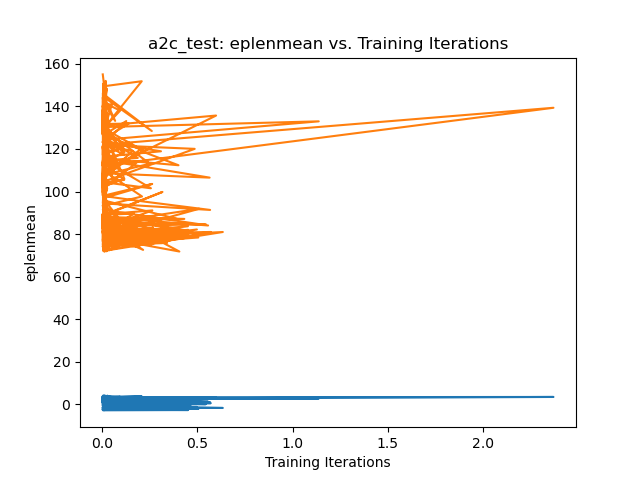
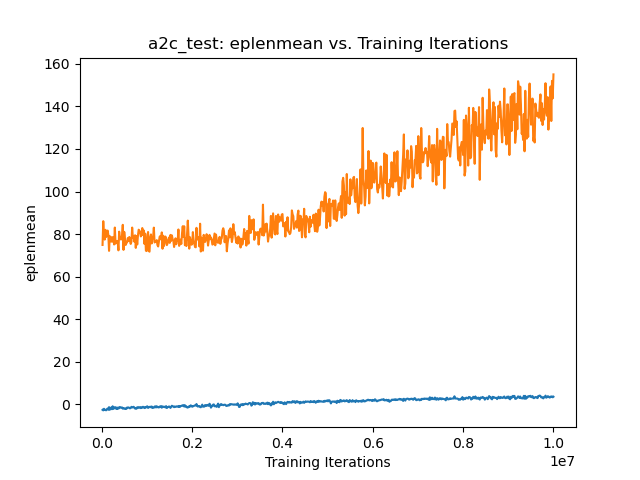
fixed visualization issue with a2c where X axis is hardcoded

diff --git a/plot_a2c.py b/plot_a2c.py
@@ -72,7 +72,7 @@ def plot(model_names, columns=['mean'], save=False, show=True, save_dir = "./", 
 
         # get the labels. Column 0 is mean, Column 1 is Reward, Column -1 is times
         for col in cols:
-            X = np.array(dataset[values[-1]], dtype='float32')
+            X = np.array(dataset[values[-2]], dtype='float32')
             y = np.array(dataset[col], dtype='float32')
             xs[(model_name, col)] = X
             ys[(model_name, col)] = y
